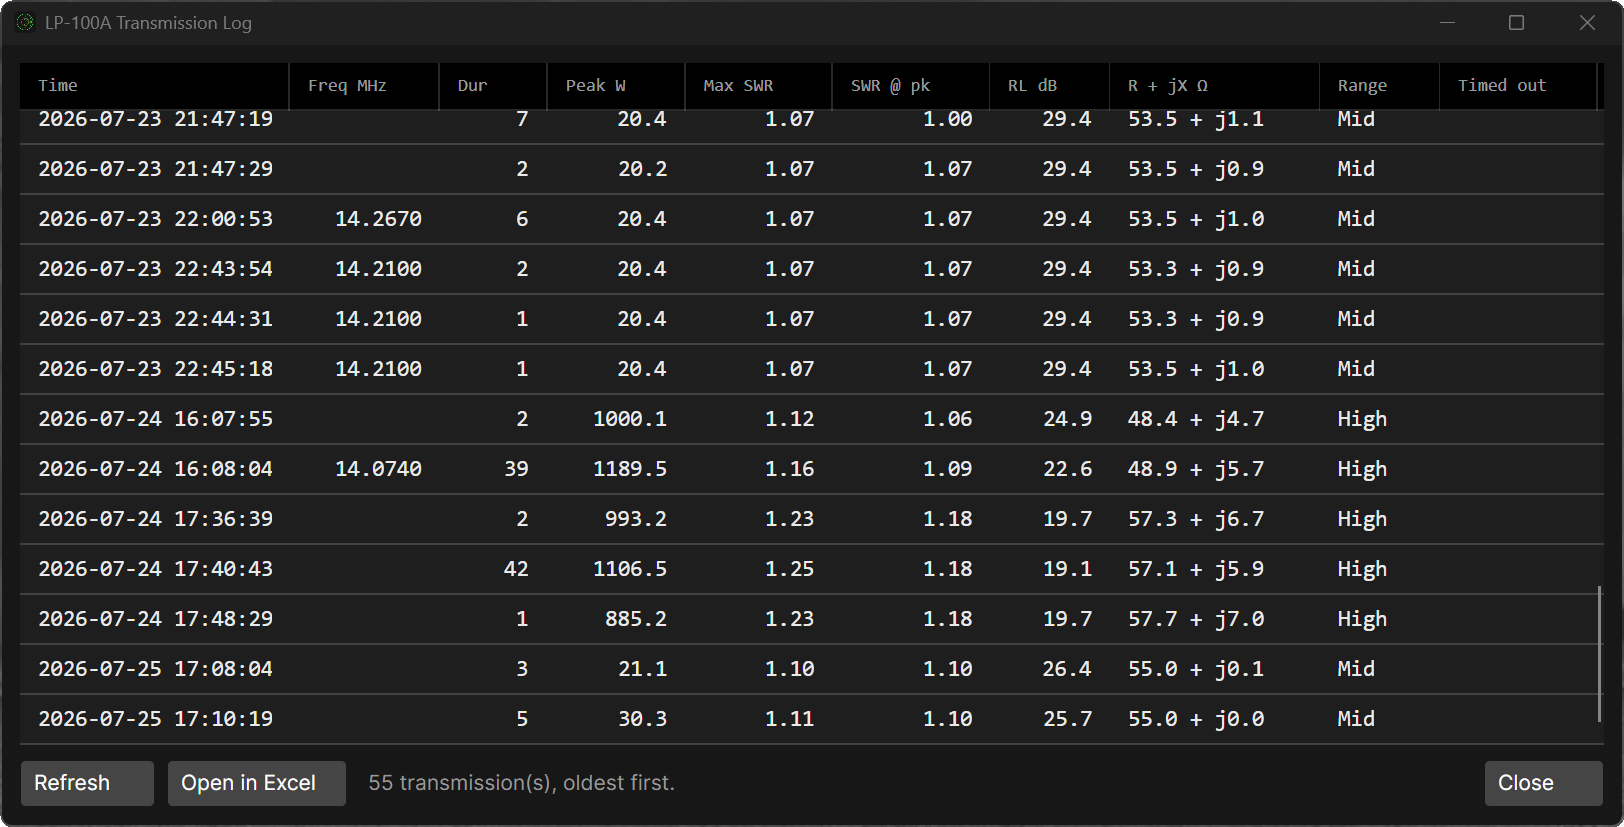
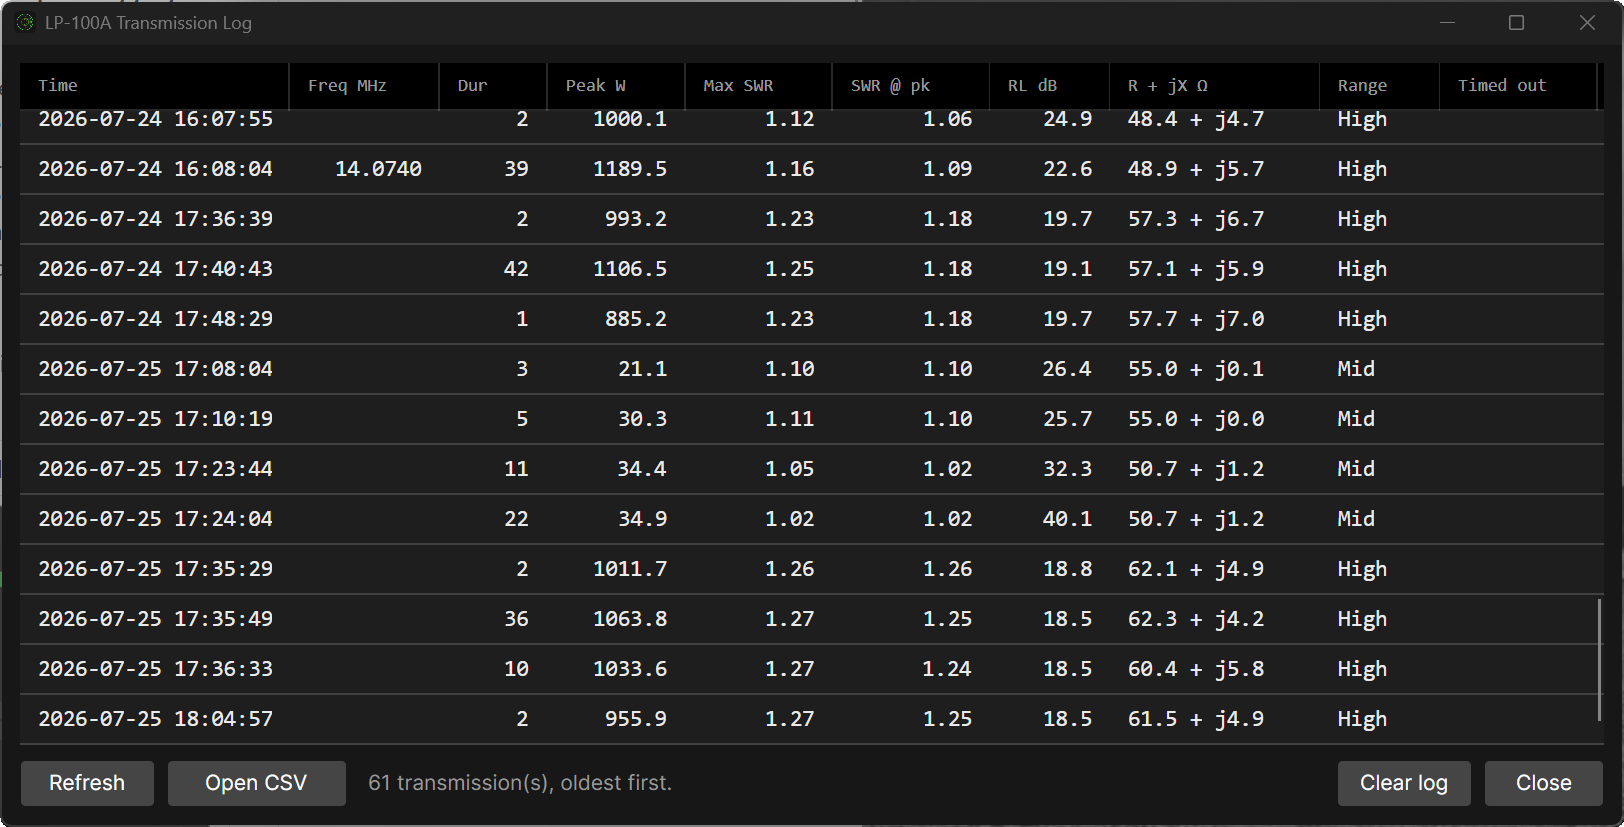
Release v0.9.13-beta: clear log, adapter serials, Open CSV

diff --git a/CHANGELOG.md b/CHANGELOG.md
@@ -5,6 +5,28 @@ All notable changes to **LP-100A Monitor** are documented here.
 This project follows [Semantic Versioning](https://semver.org). Versions below
 `1.0.0` are pre-release: real and in active use, but not yet broadly field-tested.
 
+## [0.9.13-beta] - 2026-07-25
+
+### Added
+- **Clear log** in the log window — starts a fresh log for a clean run of data. The current log is
+  **renamed aside** to `TXlog_<timestamp>.csv`, never deleted, and the status line names the file it
+  went to. Two clears in the same second no longer overwrite the first archive.
+- **The port list now shows each USB adapter's serial** — `COM7  (A10KMB4VA)`. With a meter, a
+  second meter and a transmitter all on similar adapters, the COM number alone doesn't say which is
+  which; the serial shown is the one the connection is pinned to when Windows renumbers the port.
+
+### Fixed
+- **An adapter with no serial burned in was pinned to the USB socket instead of the cable.** Windows
+  synthesises a location-based id (`6&122B2E46&0&1&1`) for such adapters, and it was being accepted
+  as if it were a serial — so moving that cable to another socket broke the very follow-the-cable
+  behaviour the pinning exists for. Those ids are now rejected and the port simply lists without a
+  serial. Adapters that report a real serial are unaffected.
+
+### Changed
+- **"Open in Excel" is now "Open CSV"** — it never needed Excel; it hands the file to whatever your
+  system opens `.csv` with.
+- The log window's action buttons centre their labels.
+
 ## [0.9.12-beta] - 2026-07-25
 
 ### Fixed

diff --git a/CLAUDE.md b/CLAUDE.md
@@ -4,7 +4,7 @@ Cross-platform desktop monitor for the TelePost **LP-100A** Digital Vector RF Wa
 Reads the meter over USB serial and shows forward power, SWR, reflected power, return loss,
 dBm, and — the signature feature — the load impedance (**R + jX**) on a live **Smith chart**.
 **.NET 8 + Avalonia 11.2.1**, MVVM. Windows / Linux / Raspberry Pi (arm64). GPLv3.
-By David Erickson (AB0R). Status: **0.9.12-beta**.
+By David Erickson (AB0R). Status: **0.9.13-beta**.
 
 This app's .NET 8 + Avalonia layout is the reference template for the station tools (the W2
 port follows it).
